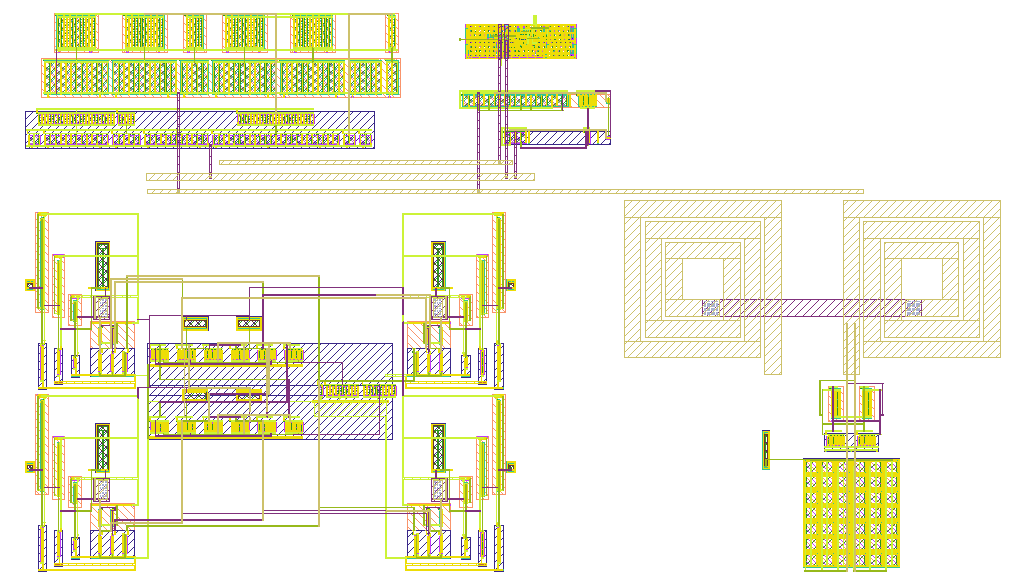
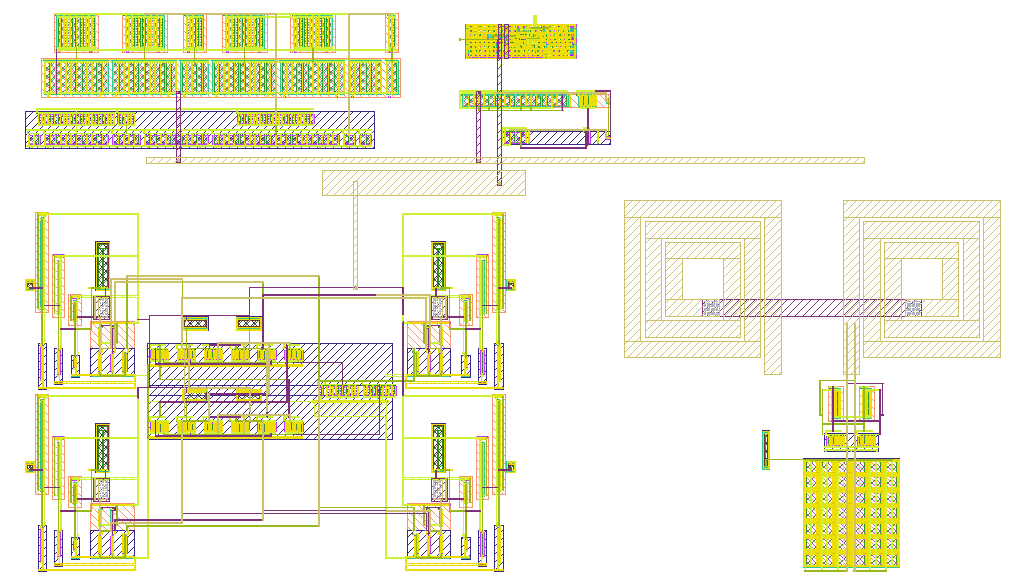
Phase 7: tracking + re-render for power/ports routing state
tracking 7.2 updated: GND=substrate (no routing), VDDD complete + VDDA 2/3, 11 port labels,
EM sizing, W4 waiver mechanism, silent-short discipline + per-rung extraction diff, UP proven
(deferred on tight PFD pins). Re-rendered chip_top with the power buses + port labels.

Changed region(s): [[0.1562, 0.0922, 0.8438, 0.3379]]

diff --git a/docs/tracking.md b/docs/tracking.md
@@ -179,17 +179,29 @@ phase at ~2.5 GHz is too fast for a monitor pad). Pins 12→10 (info.yaml + docs
 - **LVS harness** — `chip_top.abstract` (vco preload + inductor ignore). `verify_cp.sh chip_top`
   runs end-to-end: on the unrouted merge magic DRC 0, 25 nets, LVS DO NOT MATCH (missing metal).
 
-**ROUTING (rungs 3a–3c) — 🟡 WIP (started, partial).** Infra built + validated: `route_lib.py`
-DRC-clean primitives (via stacks M1–M5, wires; gf180 via 0.26 µm), `route_chip.py` adds
-top-level metal to the placed merge. **Power buses in the y[180,205] band** (verified clear of
-all blocks full-width). **SILENT SHORT found + fixed:** risers on M5 crossing an M5 bus merged
-GND into VDDD (PFD.VDD→VSUBS, DRC-legal/LVS-fatal) → **risers now M4, buses M5, via4 only at the
-target bus**. Connected so far (magic DRC 0, KLayout var-D 168): **VDDA = CP.VDD + ibias.VDD**
-(verified in extraction), GND bus on CP/ibias/PFD VSS, VDDD bus on PFD.VDD; no shorts. **Blocker
-— interior ports in dense metal:** vco (VDD/GND/ISS) and DIV2 (VDD/VSS, CK/CKB) sit deep in
-dense block metal; a via drop lands but the riser to a channel crosses dense metal and shorts —
-needs per-net threading. See `docs/phase7-routing-plan.md` PROGRESS+LESSONS. Remaining: those
-interior power terminals, all signal nets, and the 11 die-edge port labels; then LVS match.
+**ROUTING (rungs 3a/4a–4c) — 🟡 WIP (power + ports done, signals partial).**
+- **GND needs NO routing** — every block VSS + vco.GND already extract as **VSUBS (substrate)**;
+  the chip-wide common has no pad. Power = VDDA + VDDD only. (Big simplification; the earlier
+  "interior port" blocker was over-stated — nets are tapped at their METAL EXTENT, not the label:
+  `net_extent.py`/`corridor.py`/`sig_extent.py`.)
+- **VDDD = PFD.VDD + DIV2.VDD COMPLETE.** DIV2.VDD tapped on its M4 collector (x160 @ y137.5),
+  risen up the x160 M5-clear column. **VDDA = CP.VDD + ibias.VDD (2/3)** — vco.VDD deferred (its
+  M2 wire is in vco's congested right side; the corridor riser SILENTLY SHORTED OUT_p→VDDA, caught
+  by the per-rung extraction diff `chip_conn.py`, then backed out).
+- **11 die-edge port labels** → chip_top ports 0→**11** (`port_label()`; patch-on-centerline).
+- **EM sizing** computed (`em_sizing.py`): VDDA 3.5 / VDDD 22.9 / GND 26.4 / ISS 1.0 mA; buses
+  GND 15 / VDDD 12 / VDDA 3 µm, DIV2 risers 23 µm; band can't stack GND+VDDD+VDDA → GND in a
+  bottom margin (moot, GND=substrate). Current straps are connectivity-first; EM widening pending.
+- **W4 waiver mechanism** (`klayout_signoff.py` + per-cell `<cell>.waivers`): PL.5a/5b reported as
+  WAIVED, any other rule FAILs; tested exact-name granularity.
+- **SILENT-SHORT DISCIPLINE (9 so far, all one family):** horizontal buses M5, vertical risers
+  M4, via4 to M5 only at the target bus; **diff the extraction every rung** (`chip_conn.py`).
+- **Signals: UP proven** (a cut extracted PFD.UP=CP.UP, no OUT short) but PFD's 0.28 µm std-cell
+  pins at 0.28 µm pitch need a minimal-enclosure via on the exact centerline (per-pin precision,
+  deferred). Tractable next: DOWN, VGP, VGN, FB/I_P. Hard: IB_DIV2 (DIV2.IBIAS 81 µm deep),
+  VCO_OUTP/N (vco congested + 337 µm diff-pair span). See `phase7-routing-plan.md`.
+- **Gate NOW: KLayout signoff PASS (W4 waiver only), magic DRC 0, check_placement OK, 11 ports.**
+  LVS DO NOT MATCH — remaining: vco.VDD + 8 signal nets, then unique match.
 
 ### 7.3 lvs_config.json repoint (item 6) — ⏸ SPEC READY, NOT APPLIED (gated on chip LVS pass)
 
